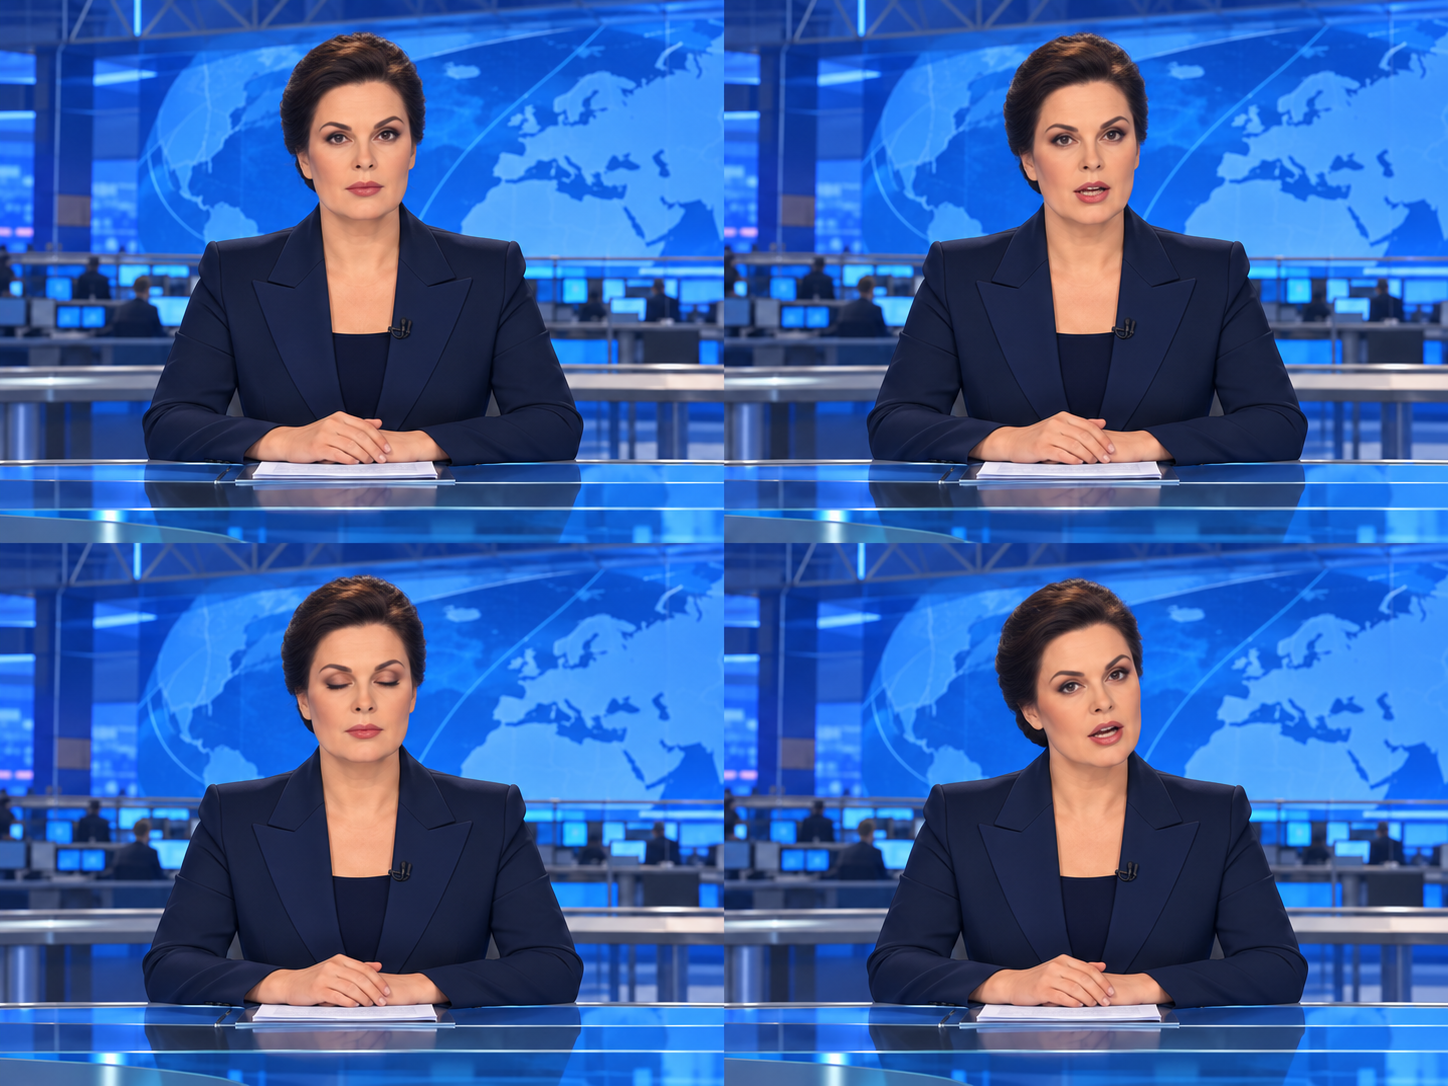
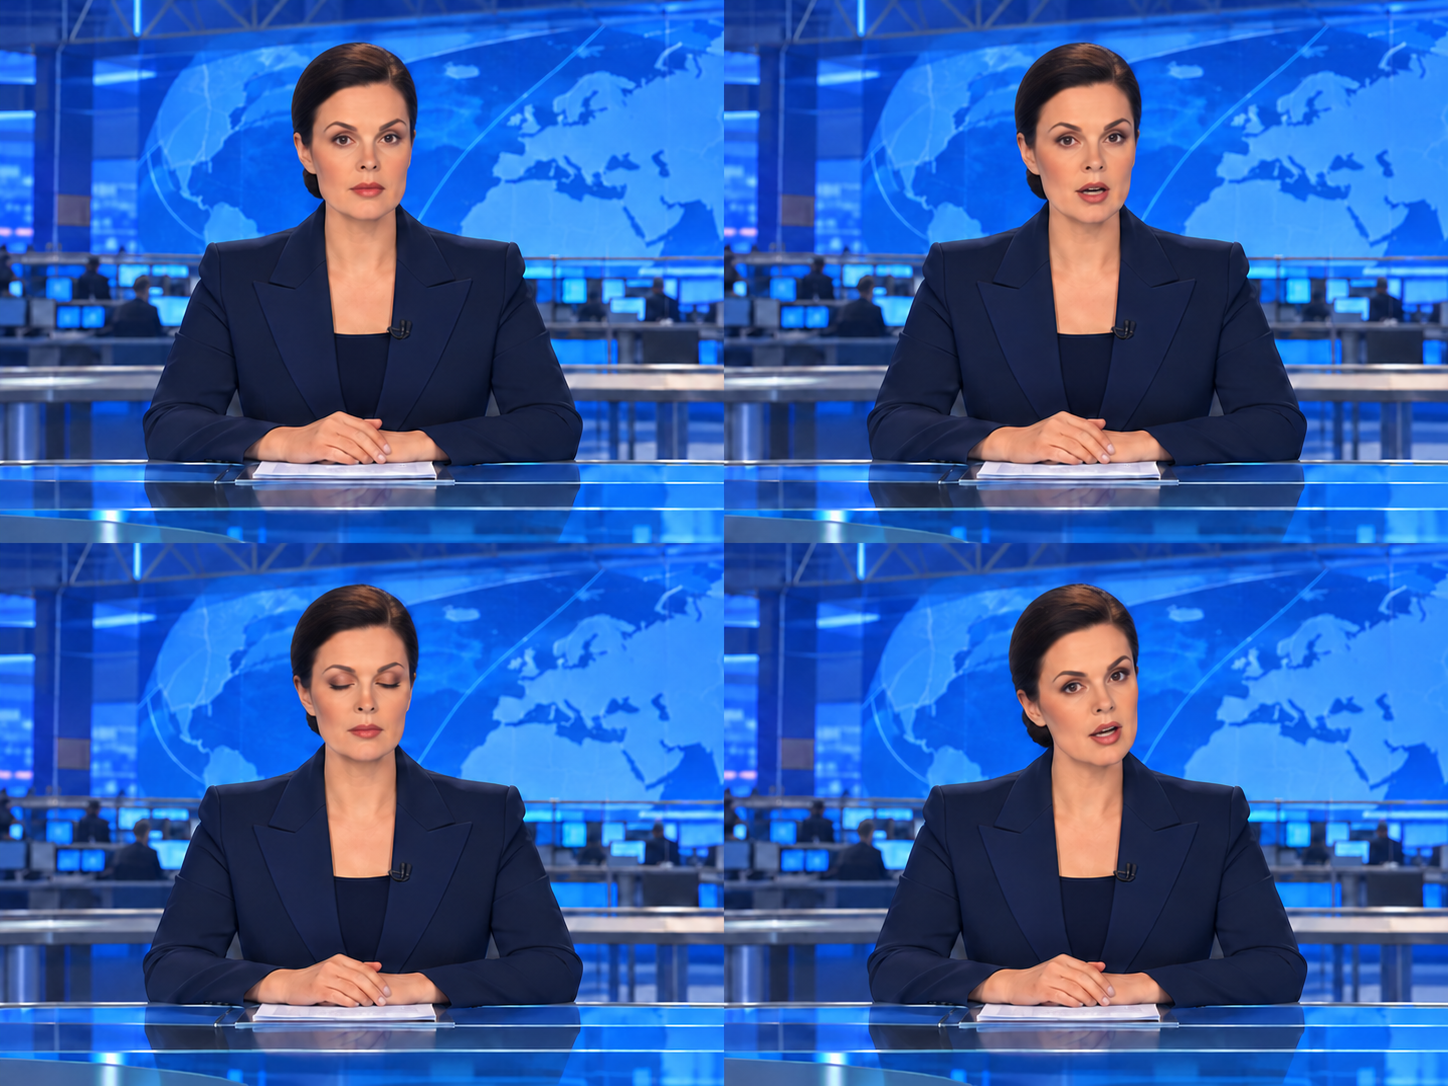
Refine Katya Andreeva face shape

diff --git a/CRT/assets/README.md b/CRT/assets/README.md
@@ -14,8 +14,8 @@ Both variants are silent sprite animation prototypes, not real footage or lip-sy
 
 ## Likeness refinement (2026-10-10)
 
-Both original atlases were edited with the built-in image generation tool to better reflect Katya Andreeva's recognizable on-air appearance: a more elongated oval face, high cheekbones, deep-set almond-shaped eyes, defined brows, and dark hair swept up into a smooth, high chignon. The source portrait reference was the publicly available [Ekaterina Andreeva profile photo](https://24smi.org/celebrity/143-ekaterina-andreeva.html). Both atlas layouts and the four expressions remain unchanged.
+Both atlases were refined again using the user's reference photo. The new cues are a clean, modest side part; dark hair smoothed close to the head and combed back into a low arrangement; and a noticeably slimmer, elongated oval face with narrower cheeks, a tapered jaw, and a small rounded chin. This replaces the previous high, voluminous updo. The four expressions, atlas layout, newsroom, and clothing remain consistent.
 
-Illustrated edit prompt: "Edit this existing 2x2 animation sprite sheet to make the presenter much more specifically recognizable as Russian TV anchor Ekaterina (Katya) Andreeva, guided by her familiar on-air appearance: mature elegant woman around 60, distinctive elongated narrow oval face, pronounced high cheekbones, slender straight nose, almond-shaped deep-set dark eyes, carefully arched dark brows, defined lips and composed authoritative expression. Her signature dark chestnut hair is neatly swept high and back into a smooth voluminous updo/chignon with a clean hairline and slight side part, no loose shoulder-length hair. Refine likeness and hairstyle only. Keep the exact cel-illustration style, navy blazer, hands at desk, same blue newsroom, camera framing, lighting, colors, and exact 2x2 four-panel animation sheet: top left neutral open eyes and closed mouth; top right speaking; bottom left blink; bottom right slight head tilt speaking. Keep the four expressions consistent as the same person. No text, no border, no logos, no changes to frame layout."
+Illustrated edit prompt: "Edit the existing illustrated 2x2 animation atlas using the supplied photo only as a likeness reference. Refine the hairstyle to dark brown hair with a modest side part, smoothed close back from the temples and secured low behind the head; remove the high bouffant. Give her a softly elongated oval face, narrower lower cheeks and jaw, natural high cheekbones and a small rounded chin. Keep her composed, with restrained broadcast makeup. Preserve the navy blazer, newsroom, desk, colors and illustrated style. Preserve the exact 2x2 cells and poses (neutral, speaking, blink, speaking with head tilt), with the same identity and scale in every cell. Do not add borders, labels, margins, extra cells or seams. Change hairstyle and facial proportions only."
 
-Realistic edit prompt: The same likeness and 2x2 layout instructions, preserving natural photorealistic broadcast-studio portrait quality. Refine her real-person likeness, age, facial structure and hairstyle only; keep navy blazer, hands at desk, blue newsroom, camera framing, lighting, and the four consistent poses.
+Realistic edit prompt: The same hair and face-shape refinements, using the supplied photo as the likeness reference while preserving the naturalistic broadcast-studio style, existing wardrobe and set, exact 2x2 grid, and four consistent poses.

diff --git a/README.md b/README.md
@@ -8,7 +8,7 @@ A Windows desktop CRT television simulator built with C++20, Win32, Direct3D 11,
 | --- | --- |
 | ![Illustrated Katya Andreeva](docs/media/news-illustrated.png) | ![Realistic Katya Andreeva](docs/media/news-realistic.png) |
 
-Press **N** on channel 11 to compare the two animated styles. The room is now channel **12**.
+Press **N** on channel 11 to compare the two animated styles. Katya's revised likeness has a slimmer oval face, narrower cheeks, and a tapered jaw while keeping the side-parted hairstyle from the reference. The room is now channel **12**.
 
 | Room TV on | Room TV off (P) |
 | --- | --- |
